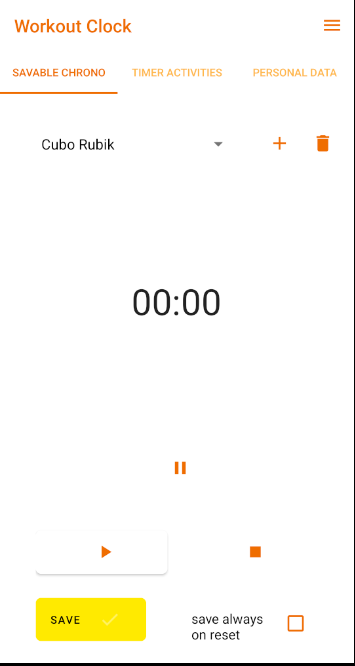
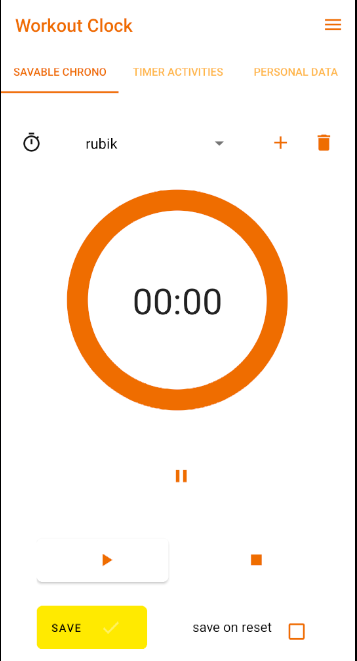
prettified README

diff --git a/README.md b/README.md
@@ -1,20 +1,27 @@
 # Advanced Workout Clock
 
-This Android Application is meant to generate a clock with some features to make any kind of timed activity more efficent, and to plot the resulting data.
+This Android Application is meant to generate a clock with features to make any work-out related activity more efficent.
 
-## Features of the app
+## Basic features of the app
 
-* The user can create an activity for the chronometer and store the timings he did for the activities.
+* The user can create an activity for the chronometer and store the timings he does for the activities. The timings are   visible and customizable.
 
-* The user can create an activity for the timer and schedule one or more timers that are also divided into work and rest.
+* The user can create an activity for an interval timer and schedule the timings to do, that are also divided into work and rest.
 
-* I will plot the data stored for chronometer and for timer into some graphs. The graphs types are not chosen yet.
+* The data stored for chronometer and for timer will be plotted into graphs. The graphs types are not chosen yet.
+
+* The app support 4 languages: English (default), France, Spanish, Italian.
+
 
 ## Front-End
 
-The front end is done with material features and styles for Android.
+The front-end is made by following material design guidelins for Android.
 
-The app supports swipe and drag with RecyclerView and it has a NestedScrollView in the timer acivities tab. 
+* The application supports [ViewPager 2](https://developer.android.com/jetpack/androidx/releases/viewpager2) to show the fragments.
+
+* The item list of the timer supports **swipe and drag callbacks** with RecyclerView and it has a NestedScrollView in the timer acivities tab. This list uses also a customized NestedScrollView to optimize the space of the timer items list.
+
+* The timer and the chronometer uses [Material Progress Bar](https://github.com/zhanghai/MaterialProgressBar)
 
 ![chronometer front end](images/chrono_front_end.png) ![timer front end](images/timer_front_end.png)
 
@@ -24,9 +31,14 @@ The app supports swipe and drag with RecyclerView and it has a NestedScrollView 
 
 ## Back-End
 
-The back end uses MVP pattern in order the seprate the logic from the model and the view and to every part testable and highly flexible.
+The interval timer uses the Shared Preferences of the phone in order not to lose the timings already done. 
 
-Since I attach a presenter to a fragment, the presenter need to be almost stateless beacuse they are on different layers of architecture and lifecycle.
+Every part of the application uses **MVP pattern** in order the seprate the development. This make every part testable and highly flexible: a programmer can implement the database ingoring the other components.
+Every component of the pattern implements the interface defined in the contract package.
+
+Since I attach a presenter to a fragment, the **presenter need to be almost stateless** beacuse they are on different layers of architecture and lifecycle.
 The only un-stateless parts of the presenter are connected to the db.
 
 ![MVP sequence_diagram](images/MVP_sequence.png)
+
+
